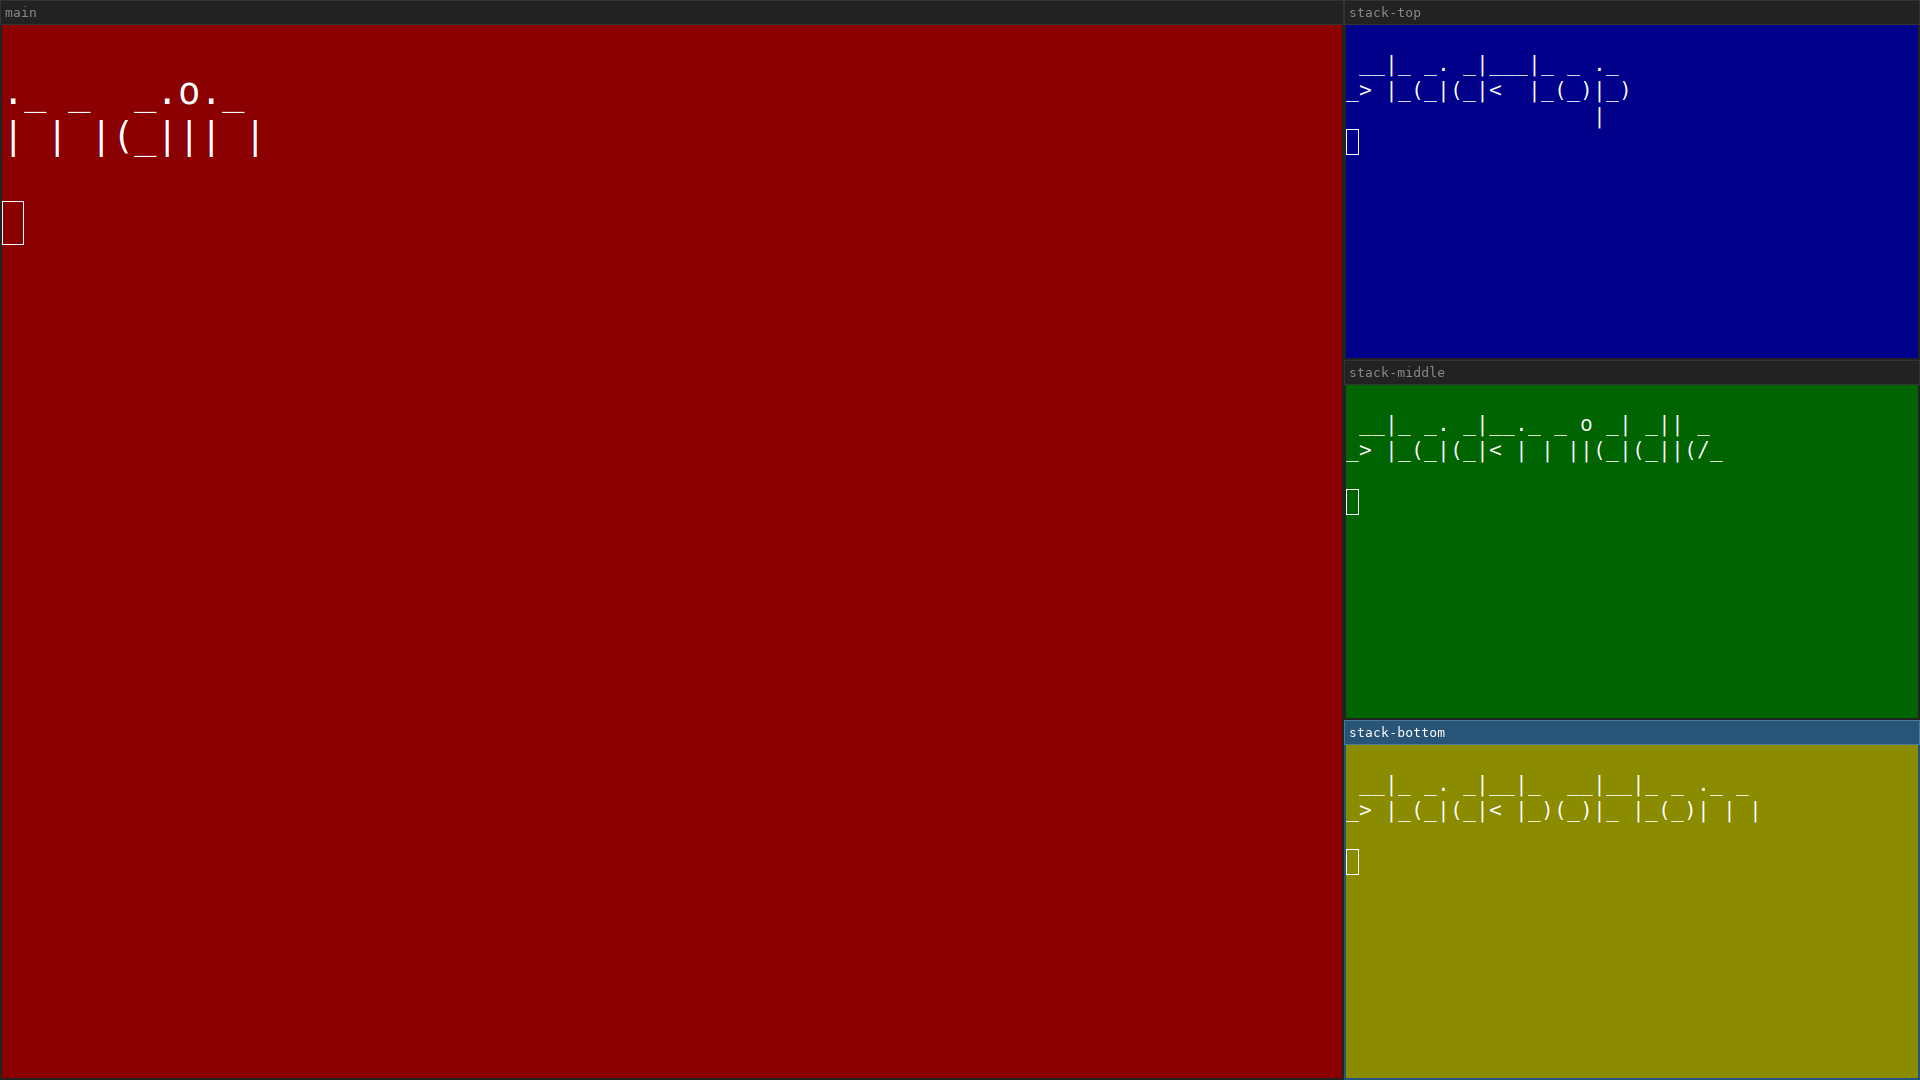
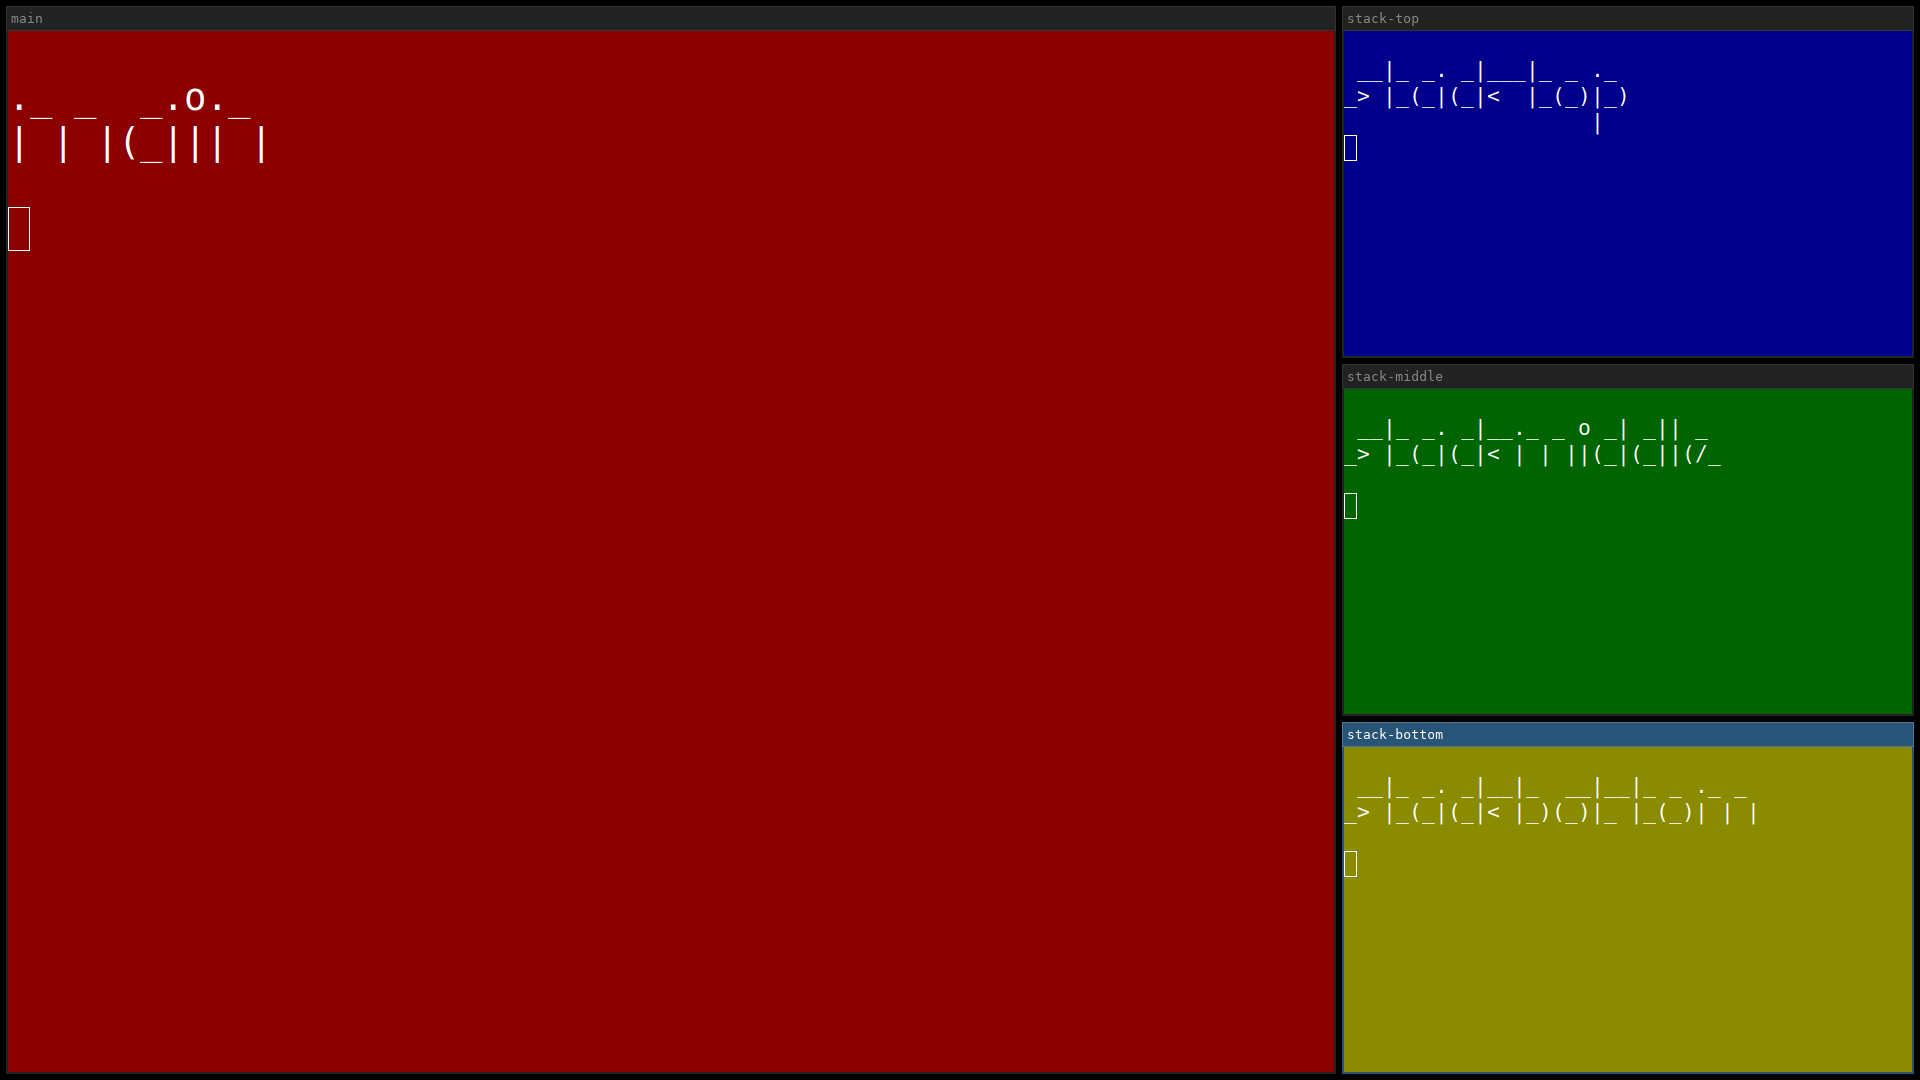
scripts/generate-layout-screenshots, CLAUDE.md: Add gaps between windows
Adjacent windows in a screenshot touched edge-to-edge with no visual
separation, making shapes with a lot of same-color-adjacent slots hard
to read at a glance. Add --gaps (default 6px), applied as a `gaps
inner <N>` config directive.

This has to be a config directive, not a `gaps inner all set <N>`
runtime command sent once at compositor startup: confirmed live that
the runtime command's `all` scope only covers workspaces that already
exist when it runs, not ones created afterward by switch_workspace() —
which is every screenshot's own workspace — so the runtime-command
version silently produced zero gap.

- scripts/generate-layout-screenshots: Start the headless compositor
  against a temp config file with `gaps inner <N>` instead of `-c
  /dev/null`; add --font (default unchanged: mini) so a different
  figlet font can be tried per run without editing the script
- CLAUDE.md: Document both
- screenshots/*.png: Regenerated with the new gaps (font unchanged)

Changed region(s): [[0.0, 0.0, 1.0, 1.0]]

diff --git a/CLAUDE.md b/CLAUDE.md
@@ -543,9 +543,18 @@ between iterations. `dual-output.toml` (needs a second real output) and `workspa
 (moves every window to its own separate workspace by design) are excluded — a single-output
 screenshot can't meaningfully depict either.
 
+Unlike `run-live-sway-tests`, the compositor isn't started with `-c /dev/null` — it's started
+against a temp config file containing a single `gaps inner <--gaps>` directive (default `6`), so
+adjacent windows stay visually distinct in the screenshot instead of touching edge-to-edge.
+Confirmed live that this has to be a config directive rather than a `gaps inner all set <N>`
+runtime command sent once at startup: the runtime command's `all` scope only covers workspaces that
+already exist at the moment it runs, not ones a later `switch_workspace()` call creates — which is
+every screenshot's own workspace — so it silently produced zero gap before this was caught.
+
 Each slot is filled with a `foot` window given a distinct background color and its own slot name
-rendered via `figlet` (the `mini` font), so the shape and slot names are both readable directly
-from the image without needing the template's own source alongside it. The font size is **not**
+rendered via `figlet` (`--font`, default the `mini` font), so the shape and slot names are both
+readable directly from the image without needing the template's own source alongside it. The font
+size is **not**
 a fixed guess — a template's shape (a 2x2 grid's equal quadrants vs. a sidebar's narrow column)
 isn't known until `sway-launch` actually lays it out, so a fixed size that looked fine in one
 template wrapped ugly in another. Instead, each template is launched twice: a first pass at a
